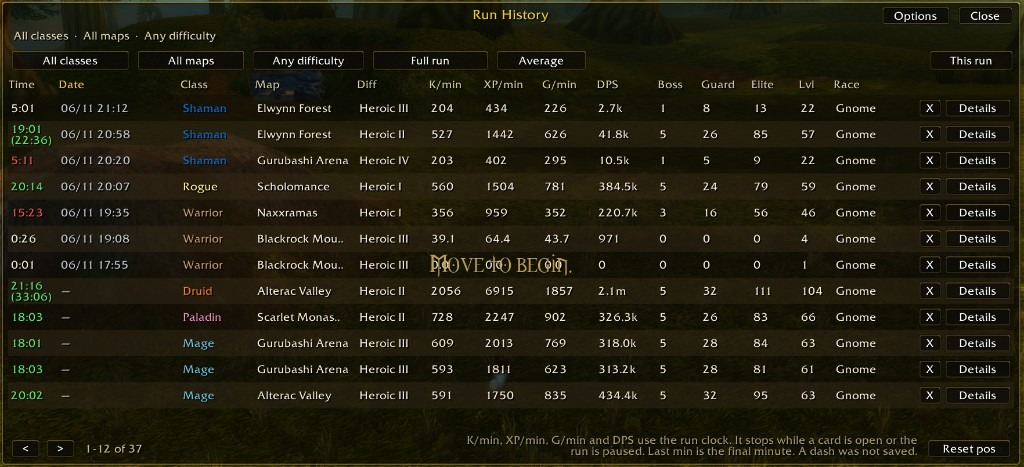
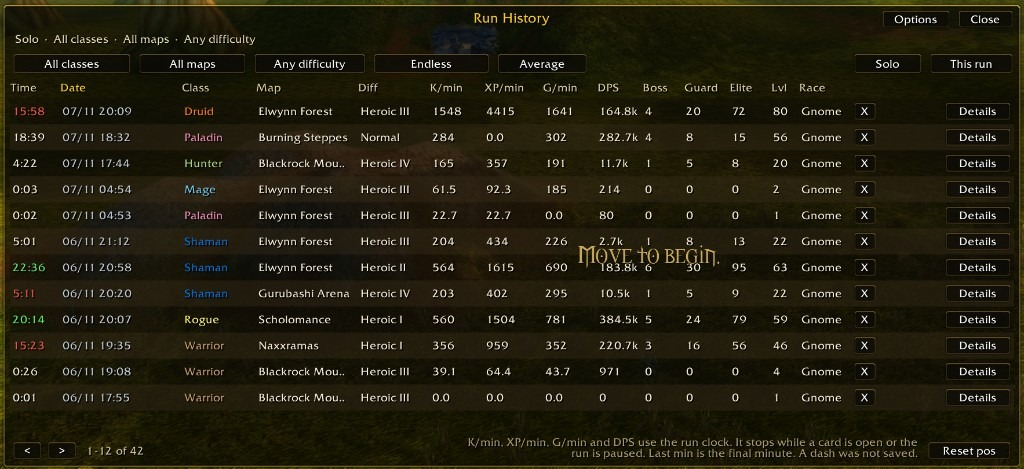
Show the solo run list and a co-op party's boss fights.

diff --git a/README.md b/README.md
@@ -61,9 +61,15 @@ Saves each run and compares kills per minute by class, map, difficulty, and spec
 
 ### Run list
 
-Filter by class, map, and difficulty. Switch between endless, the full run, and a mid-run snapshot, and between the average pace and the last minute. Each new run shows its date and time. The minimum length hides shorter runs, from 0 to 16 minutes.
+Filter by solo or co-op, and by class, map, and difficulty. Switch between endless, the full run, and a mid-run snapshot, and between the average pace and the last minute. Each new run shows its date and time. The minimum length hides shorter runs, from 0 to 16 minutes.
 
-![Run list, with class, map, and difficulty filters](screenshots/history.jpg)
+![Run list, with solo, class, map, and difficulty filters](screenshots/history.jpg)
+
+### Party
+
+A co-op run lists each boss fight, with every member's damage and share. The total shows each member's level and their share of the party's damage.
+
+![Party boss fights and each member's share of the damage](screenshots/history-party.png)
 
 ### Run details
 
